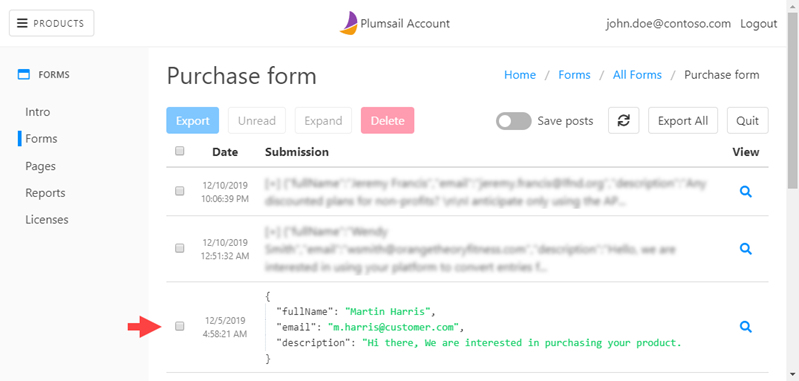
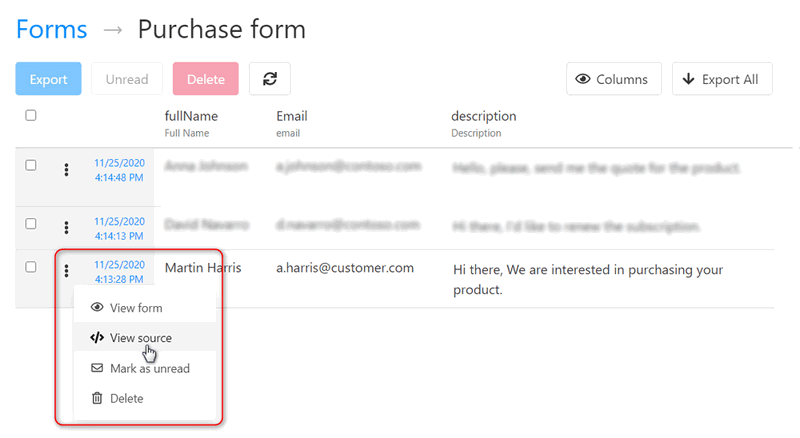
added 'forms-find json source'

diff --git a/source/user-guide/processes/custom-plumsail-form.rst b/source/user-guide/processes/custom-plumsail-form.rst
@@ -47,7 +47,14 @@ Each control and field that you added to your form has an internal name. This in
 .. image:: ../../_static/img/user-guide/processes/change-internal-name-forms.png
     :alt: Change internal name
 
-You can see the full JSON object submitted by a form in `form submissions <https://account.plumsail.com/forms/forms>`_. Just click on your form and expand any of the items:
+To see the full JSON object submitted by a form, `go to the list of your forms <https://account.plumsail.com/forms/forms>`_. 
+Click on the form and then pick the desired submission of it. 
+Click on the dots and select </> View source:
 
 .. image:: ../../_static/img/user-guide/processes/form-submissions.png
     :alt: Form submissions
+
+It will open a dialog with JSON submission source:
+
+.. image:: ../../_static/img/user-guide/processes/submission_source.png
+    :alt: Form submissions source
